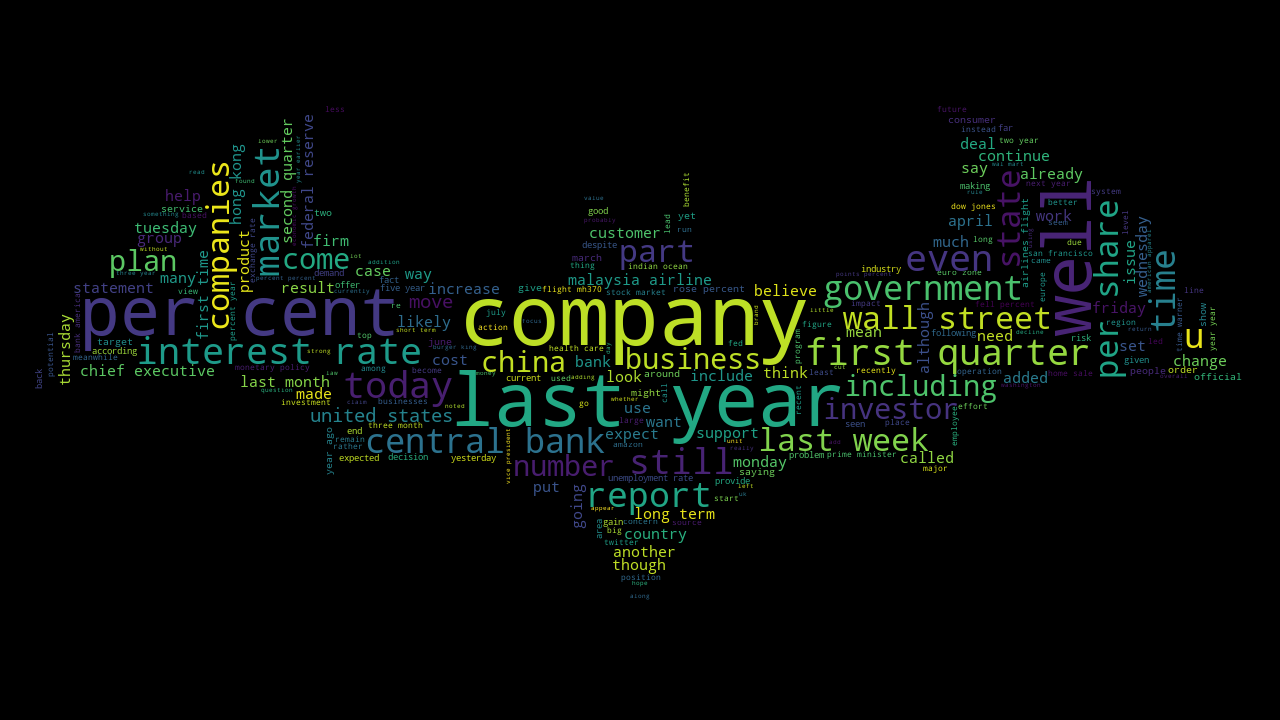
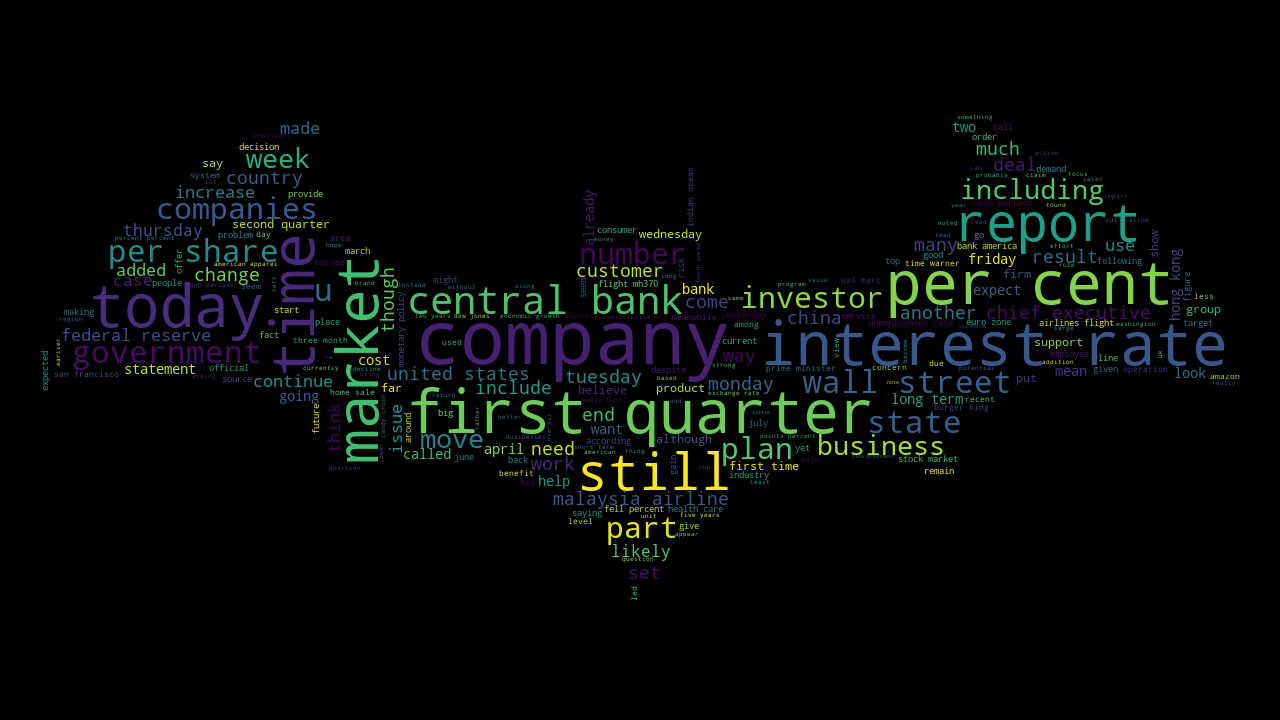
measurements

Changed region(s): [[0.0312, 0.1528, 0.9688, 0.825]]

diff --git a/locality sensitive hashing/__init__.py b/locality sensitive hashing/__init__.py
@@ -41,11 +41,13 @@ def exact_jaccard(train, test):
     print('Build time: 0 seconds')
     print("Query time: ", query_end - query_start, ' seconds')
     print('Total time: ', query_end - query_start, ' seconds')
-    print("LSH Jaccard duplicates found:", duplicates)
+    print("Exact Jaccard duplicates found:", duplicates)
     print()
 
 
 def lsh_jaccard(train, test, threshold, permutations):
+
+    print('Permutations: ', permutations)
     build_start = time.time()
     lsh = MinHashLSH(threshold=threshold, num_perm=permutations)
 
@@ -59,7 +61,7 @@ def lsh_jaccard(train, test, threshold, permutations):
         index += 1
 
     build_end = time.time()
-    print('Build time: ', build_end - build_start, ' seconds')
+    print('\tBuild time: ', build_end - build_start, ' seconds')
 
     query_start = time.time()
     index = 0
@@ -70,13 +72,13 @@ def lsh_jaccard(train, test, threshold, permutations):
             x.update(word.encode('utf8'))
 
         result = lsh.query(x)
-        if len(lsh.query(x)) > 0:
+        if len(result) > 0:
             duplicates += 1
 
     query_end = time.time()
-    print("Query time: ", query_end - query_start, ' seconds')
-    print('Total time: ', (query_end - query_start) + (build_end - build_start), ' seconds')
-    print("LSH Jaccard duplicates found:", duplicates)
+    print("\tQuery time: ", query_end - query_start, ' seconds')
+    print('\tTotal time: ', (query_end - query_start) + (build_end - build_start), ' seconds')
+    print("\tLSH Jaccard duplicates found:", duplicates)
     print()
 
 
@@ -224,7 +226,7 @@ def lsh_cosine(train, test, threshold):
 
 if __name__ == "__main__":
     threshold = 0.8
-    permutations = 16
+    permutations = [16, 32, 64]
 
     # reading the train and test set
     train_data = pd.read_csv('../datasets/q2a/corpusTrain.csv', sep=',')
@@ -232,8 +234,9 @@ if __name__ == "__main__":
     # train_data = train_data[:100000]
     # test_data = test_data[:2]
 
-    exact_jaccard(train=train_data, test=test_data)
-    # lsh_jaccard(train=train_data, test=test_data, threshold=threshold, permutations=permutations)
+    # exact_jaccard(train=train_data, test=test_data)
+    for perm in permutations:
+        lsh_jaccard(train=train_data, test=test_data, threshold=threshold, permutations=perm)
 
     # train_data, test_data = vectorize_data(train=train_data, test=test_data)
     # exact_cosine(train=train_data, test=test_data, threshold=threshold)

diff --git a/text classification/wordcloud/wordclouding.py b/text classification/wordcloud/wordclouding.py
@@ -9,7 +9,7 @@ from wordcloud import WordCloud, STOPWORDS
 
 def create_wordcloud(df, currentDir, label, stopwordsList, imgMask):
     data = df.loc[df['Label'] == label]
-    content = 5*data['Title'] + data['Content']
+    content = 5*(data['Title'] + ' ') + data['Content']
 
     # generating wordcloud
     wc = WordCloud(background_color='black', mask=imgMask, stopwords=stopwordsList, max_words=250)
@@ -21,17 +21,19 @@ def create_wordcloud(df, currentDir, label, stopwordsList, imgMask):
 if __name__ == "__main__":
 
     # read train_set.csv
-    train_set = pd.read_csv('../dataset/datasets/q1/train.csv', sep=',')
+    train_set = pd.read_csv('../../datasets/q1/train.csv', sep=',')
 
     # current directory path
-    currentDir = os.path.dirname(__file__);
+    currentDir = os.path.dirname(__file__)
 
     # set stopwords and mask
     stopwords = set(STOPWORDS)
     stopwords.update(['says'], ['talk'], ['open'],
                      ['take'], ['see'], ['will'],
                      ['may'], ['new'], ['make'],
-                     ['now'], ['said'], ['one'])
+                     ['now'], ['said'], ['one'],
+                     ['year'], ['old'], ['even'],
+                     ['well'], ['last'])
 
     mask = np.array(Image.open(path.join(currentDir, "batman-mask.jpg")))
 

diff --git a/text classification/classification/benchmark_svm.py b/text classification/classification/benchmark_svm.py
@@ -56,8 +56,8 @@ if __name__ == "__main__":
     le = preprocessing.LabelEncoder()
     y = le.fit_transform(train_data["Label"])
 
-    # SVM_cross_val()
+    SVM_cross_val()
 
-    y_pred = SVM()
-    prediction = pd.DataFrame(data={"Predicted": le.inverse_transform(y_pred)}, index=test_data['Id'])
-    prediction.to_csv('testSet_categories.csv')
+    # y_pred = SVM()
+    # prediction = pd.DataFrame(data={"Predicted": le.inverse_transform(y_pred)}, index=test_data['Id'])
+    # prediction.to_csv('testSet_categories.csv')

diff --git a/README.md b/README.md
@@ -1,2 +1,6 @@
 # DataMining
 Assignment for post graduate class Big Data Mining Techniques
+
+# Authors
+Christos Charalampos Papadopoulos
+Marios Papamichalopoulos
